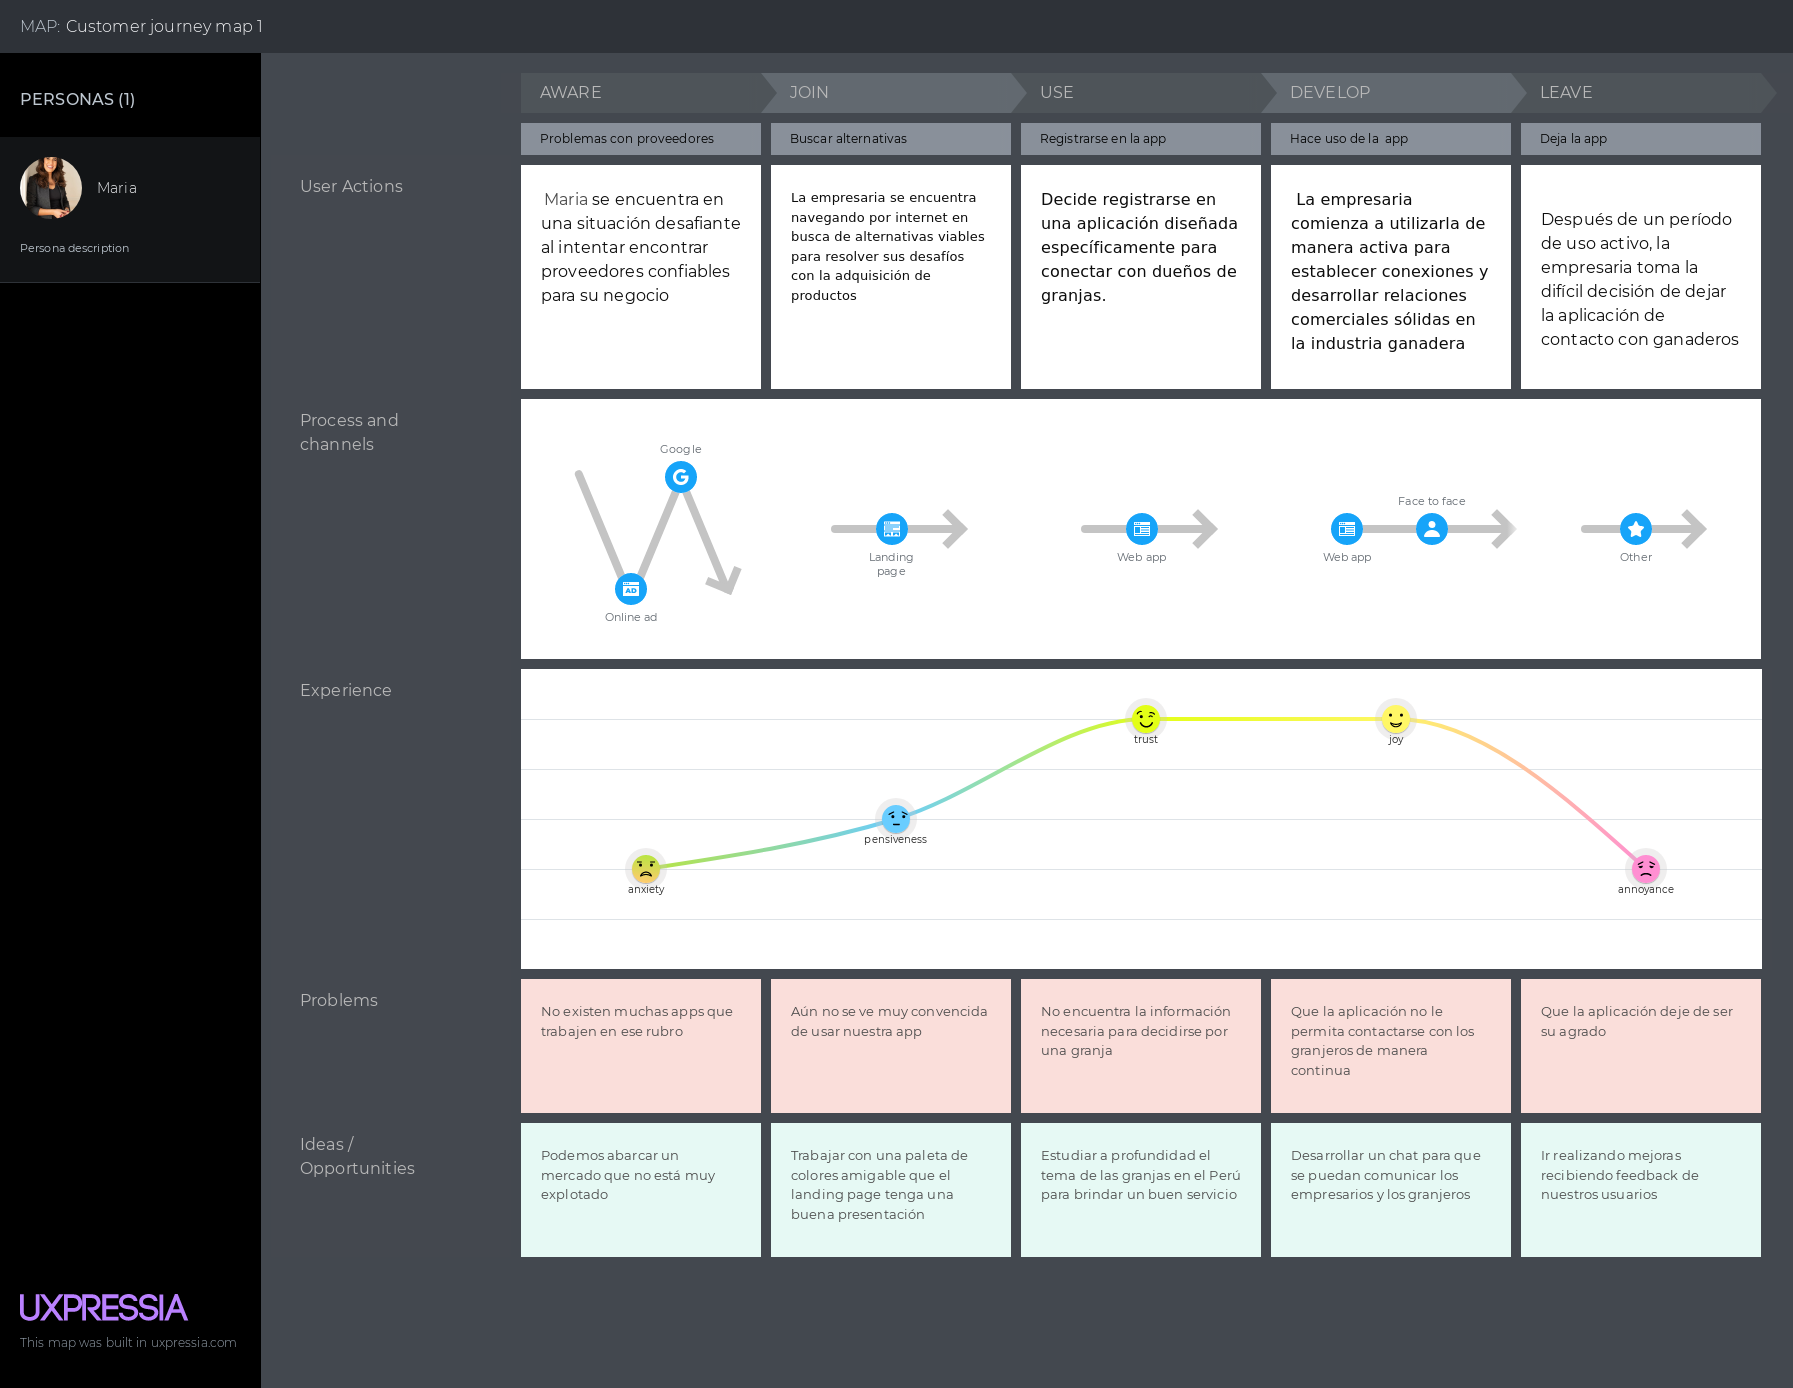
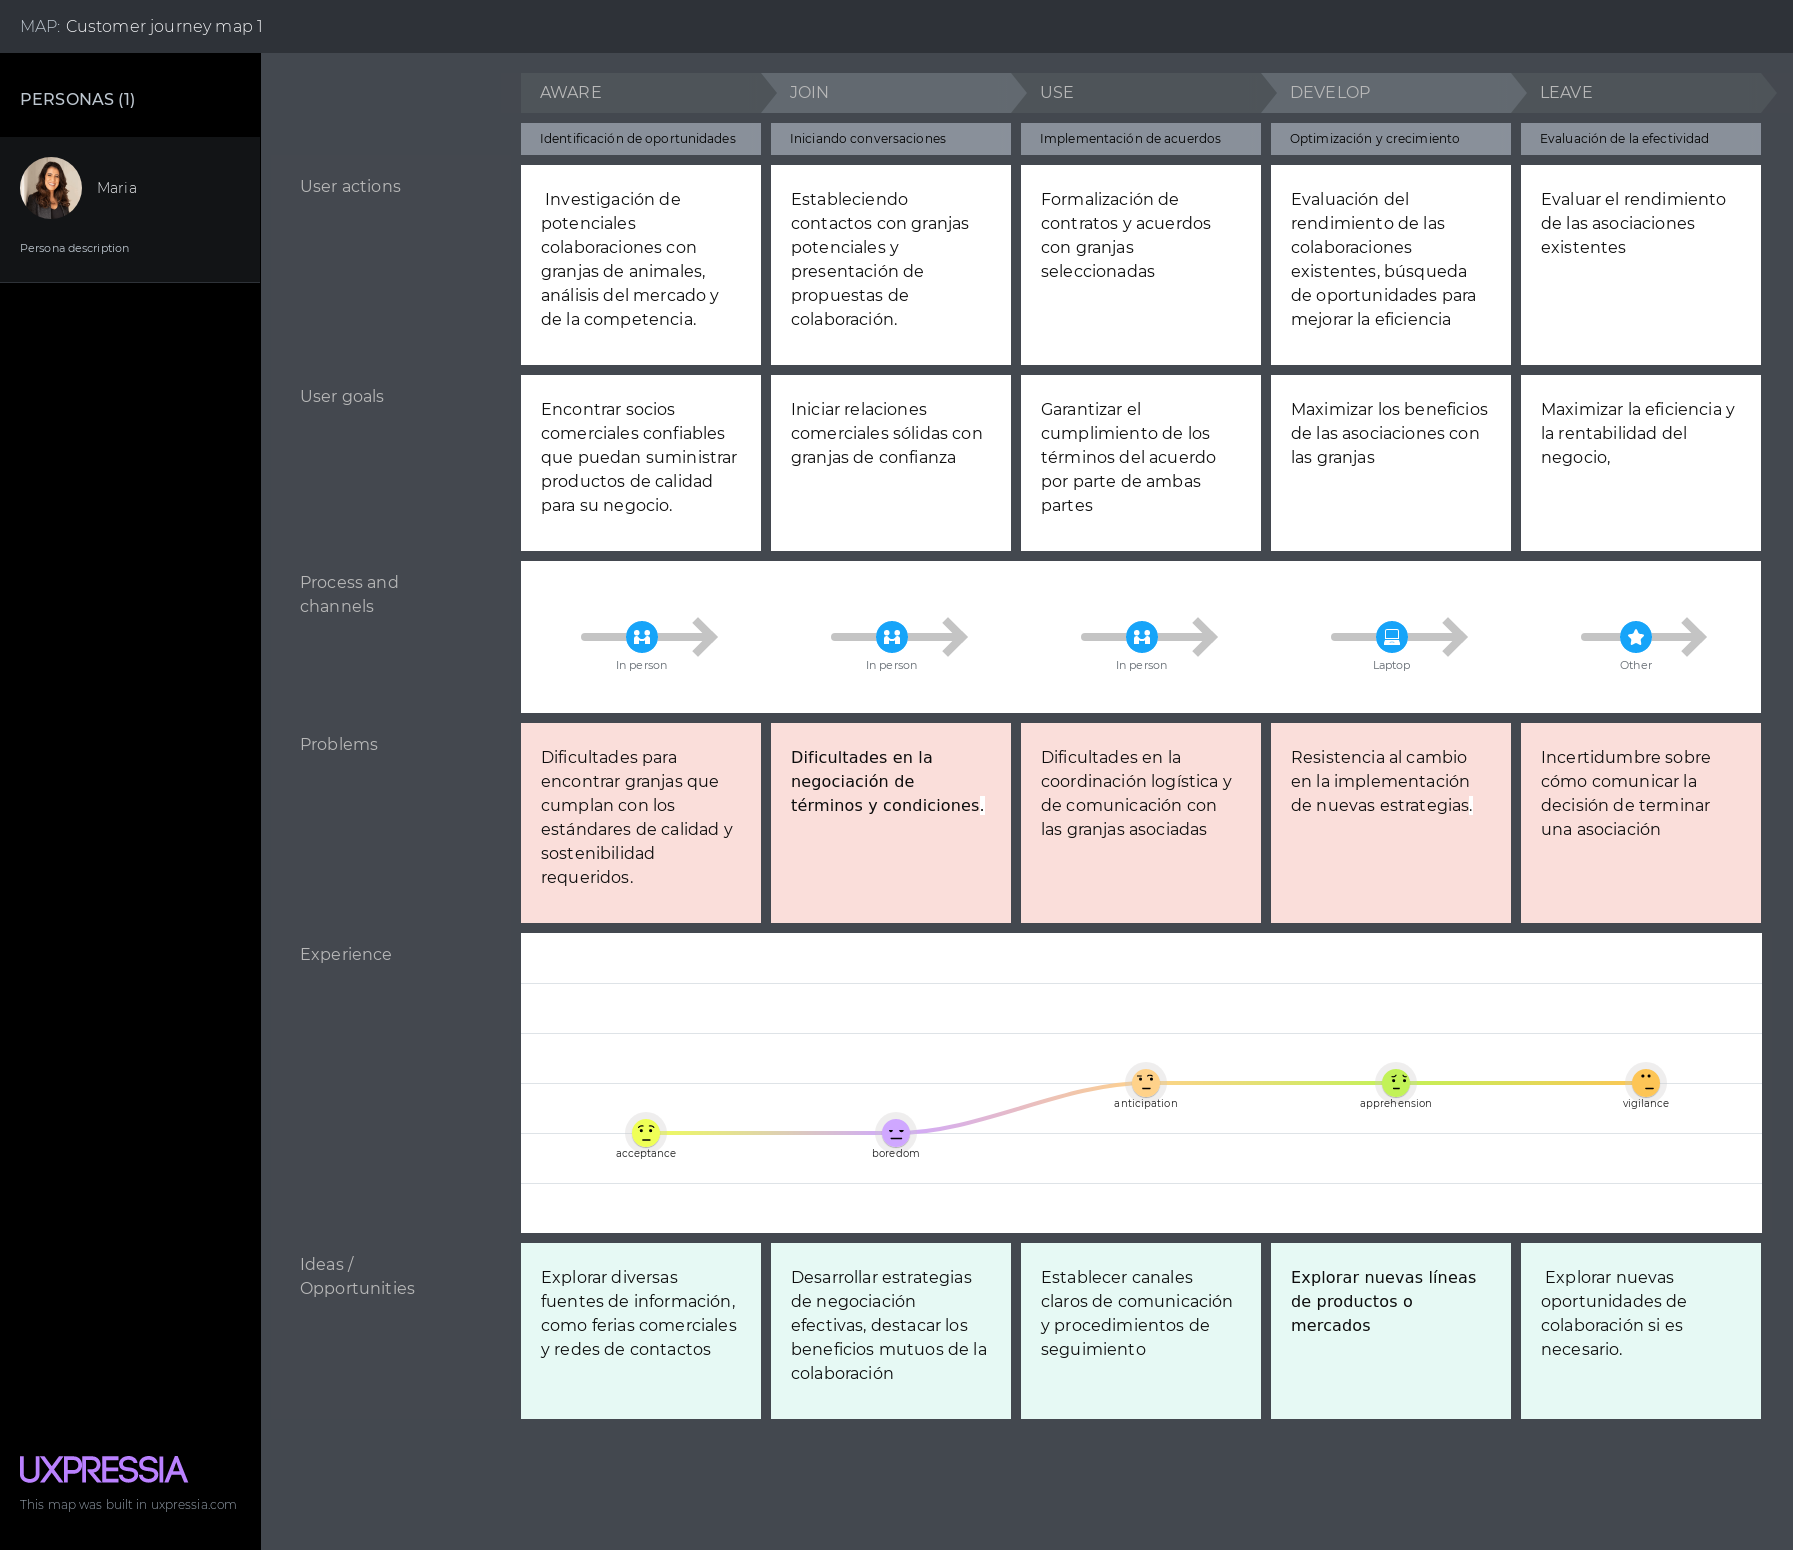
docs: correction until user journey mapping with uxpressia

diff --git a/Reporte/Capitulo2/capitulo2.md b/Reporte/Capitulo2/capitulo2.md
@@ -234,6 +234,9 @@ ya que estas deben alinearse con los estandares de los empresarios.
 
 ### 2.3.3 User Journey Mapping
 A continuación se pueden apreciar end-to-end journey de los segmentos objetivos antes de que exista nuestra solución.
+El User Journey Mapping empieza desde el momento en el que los user personas observan los problemas y tratan de
+investigar las soluciones de estas pasando por el proceso de encontrar alguna posible solución para finalmente dejar de 
+hacer uso de esta.
 - User Journey Mapping trabajador en granja
   ![Imagen de UserJourney1](https://i.postimg.cc/tTKBsfdJ/Customer-journey-map-Juann.png)
 - User Journey Mapping dueño de granja
